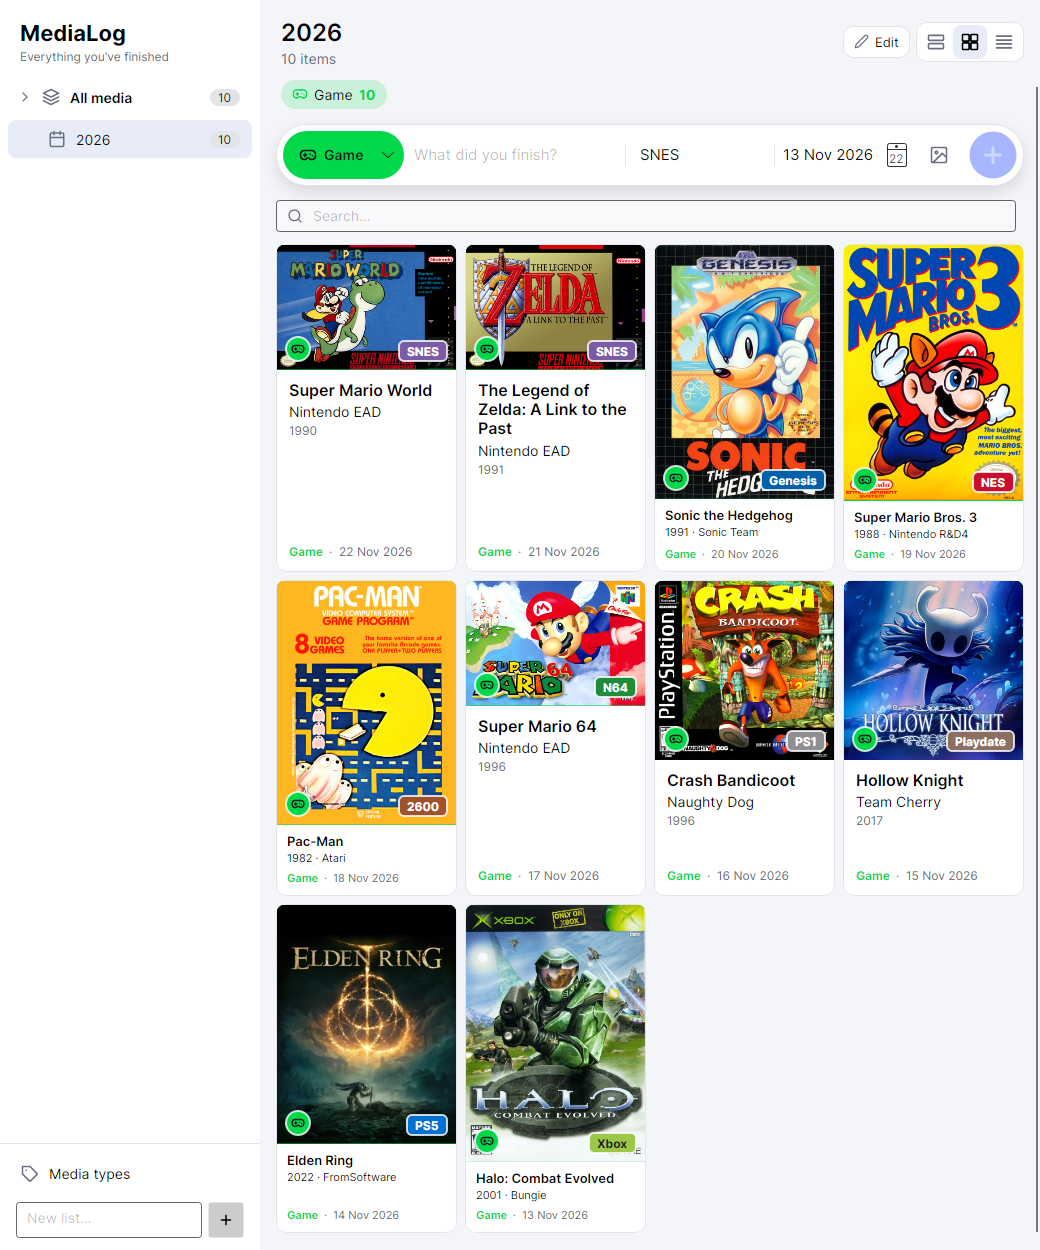
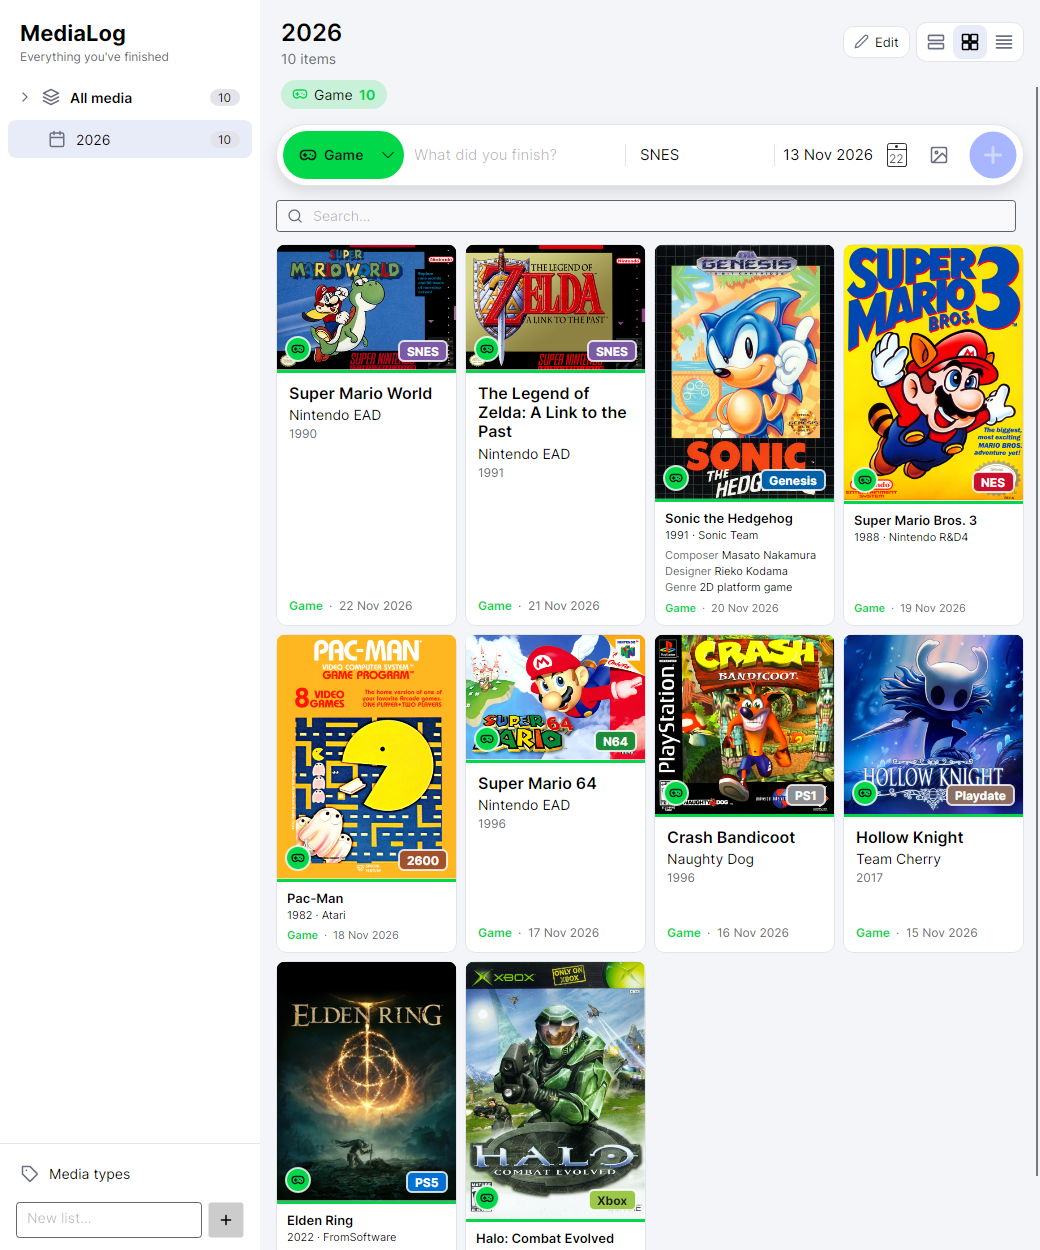
MediaLog: credits for games and movies, tile separator line
- Wikidata lookups collect credits: director, composer, producer,
  publisher, designer and genre for games; composer, writer, cast and
  genre for movies. Saved with the entry, shown in tiles and cards and
  editable in the editor (one 'Role: Name' per line).
- Picking a suggestion that lacks details (e.g. a box-art match) fills
  year, creator and credits from the best Wikidata match.
- Tiles: a thin line in the type's color separates cover and info, and
  the type placeholder is no longer drawn under cover images.

Claude-Session: https://claude.ai/code/session_01NWBCcXr1uMHCvRDya14kEE

diff --git a/apps/MediaLog/MediaLog/Services/MetadataService.cs b/apps/MediaLog/MediaLog/Services/MetadataService.cs
@@ -18,7 +18,7 @@ namespace MediaLog.Services;
 /// <param name="Length">Running time, pages, episodes, tracks… as display text.</param>
 public sealed record MediaSuggestion(
     string Title, int? Year, string? Creator, string? Length, string? ImageUrl, string Source, string? Description = null,
-    string? Platform = null)
+    string? Platform = null, IReadOnlyList<Credit>? Credits = null)
 {
     /// <summary>"2024 · Denis Villeneuve · 2h 46m"</summary>
     public string Details => string.Join(" · ",
@@ -67,6 +67,43 @@ public static class MetadataService
                 yield return batch;
             if (total >= MaxResults)
                 yield break;
+        }
+    }
+
+    /// <summary>
+    /// Fills in what a suggestion lacks (year, creator, credits, length) from the best Wikidata
+    /// match for games and films, e.g. after picking a box-art match that only has a title.
+    /// </summary>
+    public static async Task<MediaSuggestion> EnrichAsync(MediaSuggestion suggestion, MediaTypeInfo? type, CancellationToken ct)
+    {
+        var category = MediaCategories.Of(type);
+        if (category is not (MediaCategory.Game or MediaCategory.Film)
+            || (suggestion.Year is not null && suggestion.Creator is not null && suggestion.Credits is { Count: > 0 }))
+            return suggestion;
+        try
+        {
+            var kind = category == MediaCategory.Game ? WikidataKind.Game : WikidataKind.Film;
+            var match = (await SafeAsync(Wikidata(kind), suggestion.Title, ct).ConfigureAwait(false))
+                .Select(m => (Match: m, Score: TitleMatch.Score(m.Title, suggestion.Title) + TitleMatch.Score(suggestion.Title, m.Title)))
+                .Where(m => m.Score >= 1.7)
+                .OrderByDescending(m => m.Score)
+                .Select(m => m.Match)
+                .FirstOrDefault();
+            if (match is null)
+                return suggestion;
+            return suggestion with
+            {
+                Year = suggestion.Year ?? match.Year,
+                Creator = suggestion.Creator ?? match.Creator,
+                Length = suggestion.Length ?? match.Length,
+                Credits = suggestion.Credits is { Count: > 0 } ? suggestion.Credits : match.Credits,
+                Platform = suggestion.Platform ?? match.Platform,
+                ImageUrl = suggestion.ImageUrl ?? match.ImageUrl,
+            };
+        }
+        catch (OperationCanceledException)
+        {
+            return suggestion;
         }
     }
 
@@ -189,7 +226,17 @@ public static class MetadataService
             _ => ["P57", "P50", "P178", "P175", "P170", "P86"],
         };
 
-        var items = new List<(string Label, string? Description, int? Year, string? CreatorId, string? Length, string? Article, string? PlatformId)>();
+        // Extra credits worth showing, per kind: (property, role, how many values).
+        (string Property, string Role, int Max)[] creditProps = kind switch
+        {
+            WikidataKind.Game => [("P57", "Director", 2), ("P86", "Composer", 2), ("P162", "Producer", 1), ("P123", "Publisher", 1),
+                ("P287", "Designer", 1), ("P136", "Genre", 2)],
+            WikidataKind.Film => [("P86", "Composer", 1), ("P58", "Writer", 2), ("P161", "Starring", 3), ("P136", "Genre", 2)],
+            _ => [("P86", "Composer", 1), ("P50", "Author", 1), ("P136", "Genre", 2)],
+        };
+
+        var items = new List<(string Label, string? Description, int? Year, string? CreatorId, string? Length, string? Article,
+            string? PlatformId, List<(string Role, List<string> Ids)> Credits)>();
         foreach (var hit in hits)
         {
             if (!all.TryGetProperty(hit.Id, out var entity) || !entity.TryGetProperty("claims", out var claims))
@@ -222,19 +269,24 @@ public static class MetadataService
             if (entity.TryGetProperty("sitelinks", out var links) && links.TryGetProperty("enwiki", out var enwiki))
                 article = Str(enwiki, "title");
             var platformId = kind == WikidataKind.Game ? ItemIds(claims, "P400").FirstOrDefault() : null;
-            items.Add((label, description, year, creatorId, length, article, platformId));
+            var credits = creditProps
+                .Select(c => (c.Role, Ids: ItemIds(claims, c.Property).Where(id => id != creatorId).Take(c.Max).ToList()))
+                .Where(c => c.Ids.Count > 0)
+                .ToList();
+            items.Add((label, description, year, creatorId, length, article, platformId, credits));
         }
         if (items.Count == 0)
             return [];
 
         // Names of the directors / developers / authors…
         var names = new Dictionary<string, string>();
-        var creatorIds = items.Select(i => i.CreatorId).Concat(items.Select(i => i.PlatformId))
-            .OfType<string>().Distinct().Take(50).ToList();
-        if (creatorIds.Count > 0)
+        var labelIds = items.Select(i => i.CreatorId).Concat(items.Select(i => i.PlatformId))
+            .Concat(items.SelectMany(i => i.Credits.SelectMany(c => c.Ids)))
+            .OfType<string>().Distinct().Take(100).ToList();
+        foreach (var chunk in labelIds.Chunk(50)) // the API takes 50 ids per call
         {
             using var labels = await GetJsonAsync(
-                $"{api}&action=wbgetentities&props=labels&languages=en&ids={string.Join('|', creatorIds)}", ct).ConfigureAwait(false);
+                $"{api}&action=wbgetentities&props=labels&languages=en&ids={string.Join('|', chunk)}", ct).ConfigureAwait(false);
             foreach (var e in labels.RootElement.GetProperty("entities").EnumerateObject())
             {
                 if (e.Value.TryGetProperty("labels", out var l) && l.TryGetProperty("en", out var en) && Str(en, "value") is { } name)
@@ -248,7 +300,15 @@ public static class MetadataService
         return items.Select(i => new MediaSuggestion(
                 i.Label, i.Year, i.CreatorId is { } id ? names.GetValueOrDefault(id) : null, i.Length,
                 i.Article is { } a ? images.GetValueOrDefault(a) : null, "Wikidata", i.Description,
-                i.PlatformId is { } p ? names.GetValueOrDefault(p) : null))
+                i.PlatformId is { } p ? names.GetValueOrDefault(p) : null,
+                i.Credits
+                    .Select(c => new Credit
+                    {
+                        Role = c.Role,
+                        Name = string.Join(", ", c.Ids.Select(id => names.GetValueOrDefault(id)).OfType<string>()),
+                    })
+                    .Where(c => c.Name.Length > 0)
+                    .ToList()))
             .ToList();
     };
 

diff --git a/apps/MediaLog/MediaLog/ViewModels/EntryEditorViewModel.cs b/apps/MediaLog/MediaLog/ViewModels/EntryEditorViewModel.cs
@@ -1,5 +1,6 @@
 using System;
 using System.Collections.Generic;
+using System.Linq;
 using CommunityToolkit.Mvvm.ComponentModel;
 using CommunityToolkit.Mvvm.Input;
 using MediaLog.Models;
@@ -30,6 +31,7 @@ public partial class EntryEditorViewModel : ViewModelBase
         Date = entry.Model.CompletedOn.ToDateTime(TimeOnly.MinValue);
         List = entry.List;
         YearText = entry.Model.Year?.ToString() ?? "";
+        CreditsText = FormatCredits(entry.Model.Credits);
         Creator = entry.Model.Creator ?? "";
         Length = entry.Model.Length ?? "";
         Cover = new CoverPickerViewModel(entry.Model.ImageUrl, entry.Image, entry.Model.Name, () => Type, () => PlatformText);
@@ -60,6 +62,24 @@ public partial class EntryEditorViewModel : ViewModelBase
     [ObservableProperty]
     public partial string YearText { get; set; }
 
+    /// <summary>One "Role: Name" per line.</summary>
+    [ObservableProperty]
+    public partial string CreditsText { get; set; }
+
+    public static string FormatCredits(IEnumerable<Credit>? credits) =>
+        credits is null ? "" : string.Join(Environment.NewLine, credits.Select(c => $"{c.Role}: {c.Name}"));
+
+    public static List<Credit>? ParseCredits(string? text)
+    {
+        var credits = (text ?? "")
+            .Split('\n', StringSplitOptions.RemoveEmptyEntries | StringSplitOptions.TrimEntries)
+            .Select(line => line.Split(':', 2, StringSplitOptions.TrimEntries))
+            .Where(parts => parts.Length == 2 && parts[0].Length > 0 && parts[1].Length > 0)
+            .Select(parts => new Credit { Role = parts[0], Name = parts[1] })
+            .ToList();
+        return credits.Count > 0 ? credits : null;
+    }
+
     /// <summary>Director, author, developer, artist, studio…</summary>
     [ObservableProperty]
     public partial string Creator { get; set; }
@@ -71,8 +91,33 @@ public partial class EntryEditorViewModel : ViewModelBase
     [RelayCommand]
     private void LookUp() => Suggestions.SearchNow(Name);
 
-    private void ApplySuggestion(Services.MediaSuggestion suggestion, Avalonia.Media.Imaging.Bitmap? thumbnail)
+    private async void ApplySuggestion(Services.MediaSuggestion suggestion, Avalonia.Media.Imaging.Bitmap? thumbnail)
     {
+        ApplyDetails(suggestion, thumbnail);
+        // Complete missing details (credits, year…) from Wikidata.
+        var enriched = await Services.MetadataService.EnrichAsync(suggestion, Type, default);
+        if (enriched != suggestion)
+            ApplyDetails(enriched with { ImageUrl = suggestion.ImageUrl ?? enriched.ImageUrl }, null, onlyMissing: true);
+    }
+
+    private void ApplyDetails(Services.MediaSuggestion suggestion, Avalonia.Media.Imaging.Bitmap? thumbnail, bool onlyMissing = false)
+    {
+        if (suggestion.Credits is { Count: > 0 } credits && (!onlyMissing || string.IsNullOrWhiteSpace(CreditsText)))
+            CreditsText = FormatCredits(credits);
+        if (onlyMissing)
+        {
+            if (string.IsNullOrWhiteSpace(YearText) && suggestion.Year is { } y)
+                YearText = y.ToString();
+            if (string.IsNullOrWhiteSpace(Creator) && suggestion.Creator is { } c)
+                Creator = c;
+            if (string.IsNullOrWhiteSpace(Length) && suggestion.Length is { } l)
+                Length = l;
+            if (string.IsNullOrWhiteSpace(PlatformText) && suggestion.Platform is { } p)
+                PlatformText = p;
+            if (Cover.ImageUrl is null && suggestion.ImageUrl is { } u)
+                Cover.ImageUrl = u;
+            return;
+        }
         Name = suggestion.Title;
         if (suggestion.Year is { } year)
             YearText = year.ToString();

diff --git a/apps/MediaLog/MediaLog/ViewModels/MainViewModel.cs b/apps/MediaLog/MediaLog/ViewModels/MainViewModel.cs
@@ -432,6 +432,7 @@ public partial class MainViewModel : ViewModelBase
         NewName = suggestion.Title;
         _applyingSuggestion = false;
         NewDetails = suggestion;
+        _ = EnrichNewDetailsAsync(suggestion);
         if (suggestion.Platform is { } platform && string.IsNullOrWhiteSpace(NewPlatform))
             NewPlatform = Services.Platforms.Find(_library.Platforms, platform)?.Name ?? platform;
         if (suggestion.ImageUrl is { } url)
@@ -440,6 +441,22 @@ public partial class MainViewModel : ViewModelBase
             NewCover.Image = thumbnail;
             if (thumbnail is null)
                 _ = LoadNewCoverAsync(url);
+        }
+    }
+
+    /// <summary>Completes a picked match's details (credits, year…) from Wikidata in the background.</summary>
+    private async System.Threading.Tasks.Task EnrichNewDetailsAsync(MediaSuggestion suggestion)
+    {
+        var enriched = await MetadataService.EnrichAsync(suggestion, NewType, default);
+        if (!ReferenceEquals(NewDetails, suggestion) || enriched == suggestion)
+            return;
+        NewDetails = enriched;
+        if (string.IsNullOrWhiteSpace(NewPlatform) && enriched.Platform is { } platform)
+            NewPlatform = Services.Platforms.Find(_library.Platforms, platform)?.Name ?? platform;
+        if (NewCover.ImageUrl is null && enriched.ImageUrl is { } url)
+        {
+            NewCover.ImageUrl = url;
+            _ = LoadNewCoverAsync(url);
         }
     }
 
@@ -520,6 +537,7 @@ public partial class MainViewModel : ViewModelBase
         {
             Name = NewName.Trim(), Kind = type.Id, CompletedOn = date, ImageUrl = imageUrl,
             Year = details?.Year, Creator = details?.Creator, Length = details?.Length,
+            Credits = details?.Credits is { Count: > 0 } credits ? credits.ToList() : null,
             Platform = IsNewGame ? EnsurePlatform(NewPlatform) : null,
         });
         if (imageUrl is not null)
@@ -625,6 +643,7 @@ public partial class MainViewModel : ViewModelBase
         entry.Creator = string.IsNullOrWhiteSpace(editor.Creator) ? null : editor.Creator.Trim();
         entry.Length = string.IsNullOrWhiteSpace(editor.Length) ? null : editor.Length.Trim();
         entry.Platform = editor.IsGame ? EnsurePlatform(editor.PlatformText) : null;
+        entry.Credits = EntryEditorViewModel.ParseCredits(editor.CreditsText);
         if (entry.ImageUrl is { } url)
             _ = ImageCache.SaveToDiskAsync(url);
 

diff --git a/apps/MediaLog/MediaLog/ViewModels/EntryViewModel.cs b/apps/MediaLog/MediaLog/ViewModels/EntryViewModel.cs
@@ -1,6 +1,8 @@
 using System;
 using System.Globalization;
+using System.Collections.Generic;
 using System.Linq;
+using Avalonia.Media;
 using Avalonia.Media.Imaging;
 using Avalonia.Threading;
 using CommunityToolkit.Mvvm.ComponentModel;
@@ -41,6 +43,17 @@ public partial class EntryViewModel : ViewModelBase
     public bool HasPlatform => Platform is not null;
 
     public bool HasDetailsOrPlatform => HasDetails || HasPlatform;
+
+    /// <summary>Extra credits (director, composer…) for tiles.</summary>
+    public IReadOnlyList<Credit> Credits => Model.Credits ?? [];
+
+    public bool HasCredits => Credits.Count > 0;
+
+    /// <summary>"Director: Hiroshi Yamauchi · Composer: Koji Kondo" for cards.</summary>
+    public string CreditsLine => string.Join("  ·  ", Credits.Select(c => $"{c.Role}: {c.Name}"));
+
+    /// <summary>The type-colored placeholder only shows when there's no cover image.</summary>
+    public IBrush CoverBackground => HasImage ? Brushes.Transparent : Type.Brush;
 
     /// <summary>Whether the owning list name is shown (when it differs from the list being viewed).</summary>
     public bool ShowList { get; }
@@ -98,7 +111,7 @@ public partial class EntryViewModel : ViewModelBase
 
     /// <summary>Cover image, once downloaded (or from cache).</summary>
     [ObservableProperty]
-    [NotifyPropertyChangedFor(nameof(HasImage), nameof(IsSquareCover), nameof(CoverRatio))]
+    [NotifyPropertyChangedFor(nameof(HasImage), nameof(IsSquareCover), nameof(CoverRatio), nameof(CoverBackground))]
     public partial Bitmap? Image { get; set; }
 
     public bool HasImage => Image is not null;

diff --git a/apps/MediaLog/MediaLog/Models/MediaEntry.cs b/apps/MediaLog/MediaLog/Models/MediaEntry.cs
@@ -1,4 +1,5 @@
 using System;
+using System.Collections.Generic;
 
 namespace MediaLog.Models;
 
@@ -19,6 +20,9 @@ public sealed class MediaEntry
 
     /// <summary>Running time, page count, number of episodes… as display text.</summary>
     public string? Length { get; set; }
+
+    /// <summary>Extra credits: director, composer, publisher, genre… (optional).</summary>
+    public List<Credit>? Credits { get; set; }
 
     /// <summary>Console / platform name (games), matching a <see cref="PlatformDef"/>.</summary>
     public string? Platform { get; set; }

diff --git a/apps/MediaLog/MediaLog/Models/Credit.cs b/apps/MediaLog/MediaLog/Models/Credit.cs
@@ -1,0 +1,8 @@
+namespace MediaLog.Models;
+
+/// <summary>A person or company credited on a work ("Composer: Koji Kondo").</summary>
+public sealed class Credit
+{
+    public string Role { get; set; } = "";
+    public string Name { get; set; } = "";
+}

diff --git a/apps/MediaLog/README.md b/apps/MediaLog/README.md
@@ -21,6 +21,8 @@ documentaries, audiobooks…
   their proper name, cover and details: **year**, **creator** (director, author, studio, developer,
   artist…) and **length** (running time, episodes, pages, tracks…). Picking one fills it all in; the
   details are shown on the entry and editable in the editor (which also has a *Look up* button).
+  Games and movies also get **credits** from Wikidata (director, composer, producer, publisher,
+  designer, genre; writer and cast for movies), also filled in when a box-art match is picked.
   Sources (free, no keys) by type: Wikidata (movies, documentaries, games, other), TVmaze (series),
   AniList (anime, manga), Google Books / Open Library / iTunes (books, comics), iTunes (albums,
   podcasts, audiobooks).
